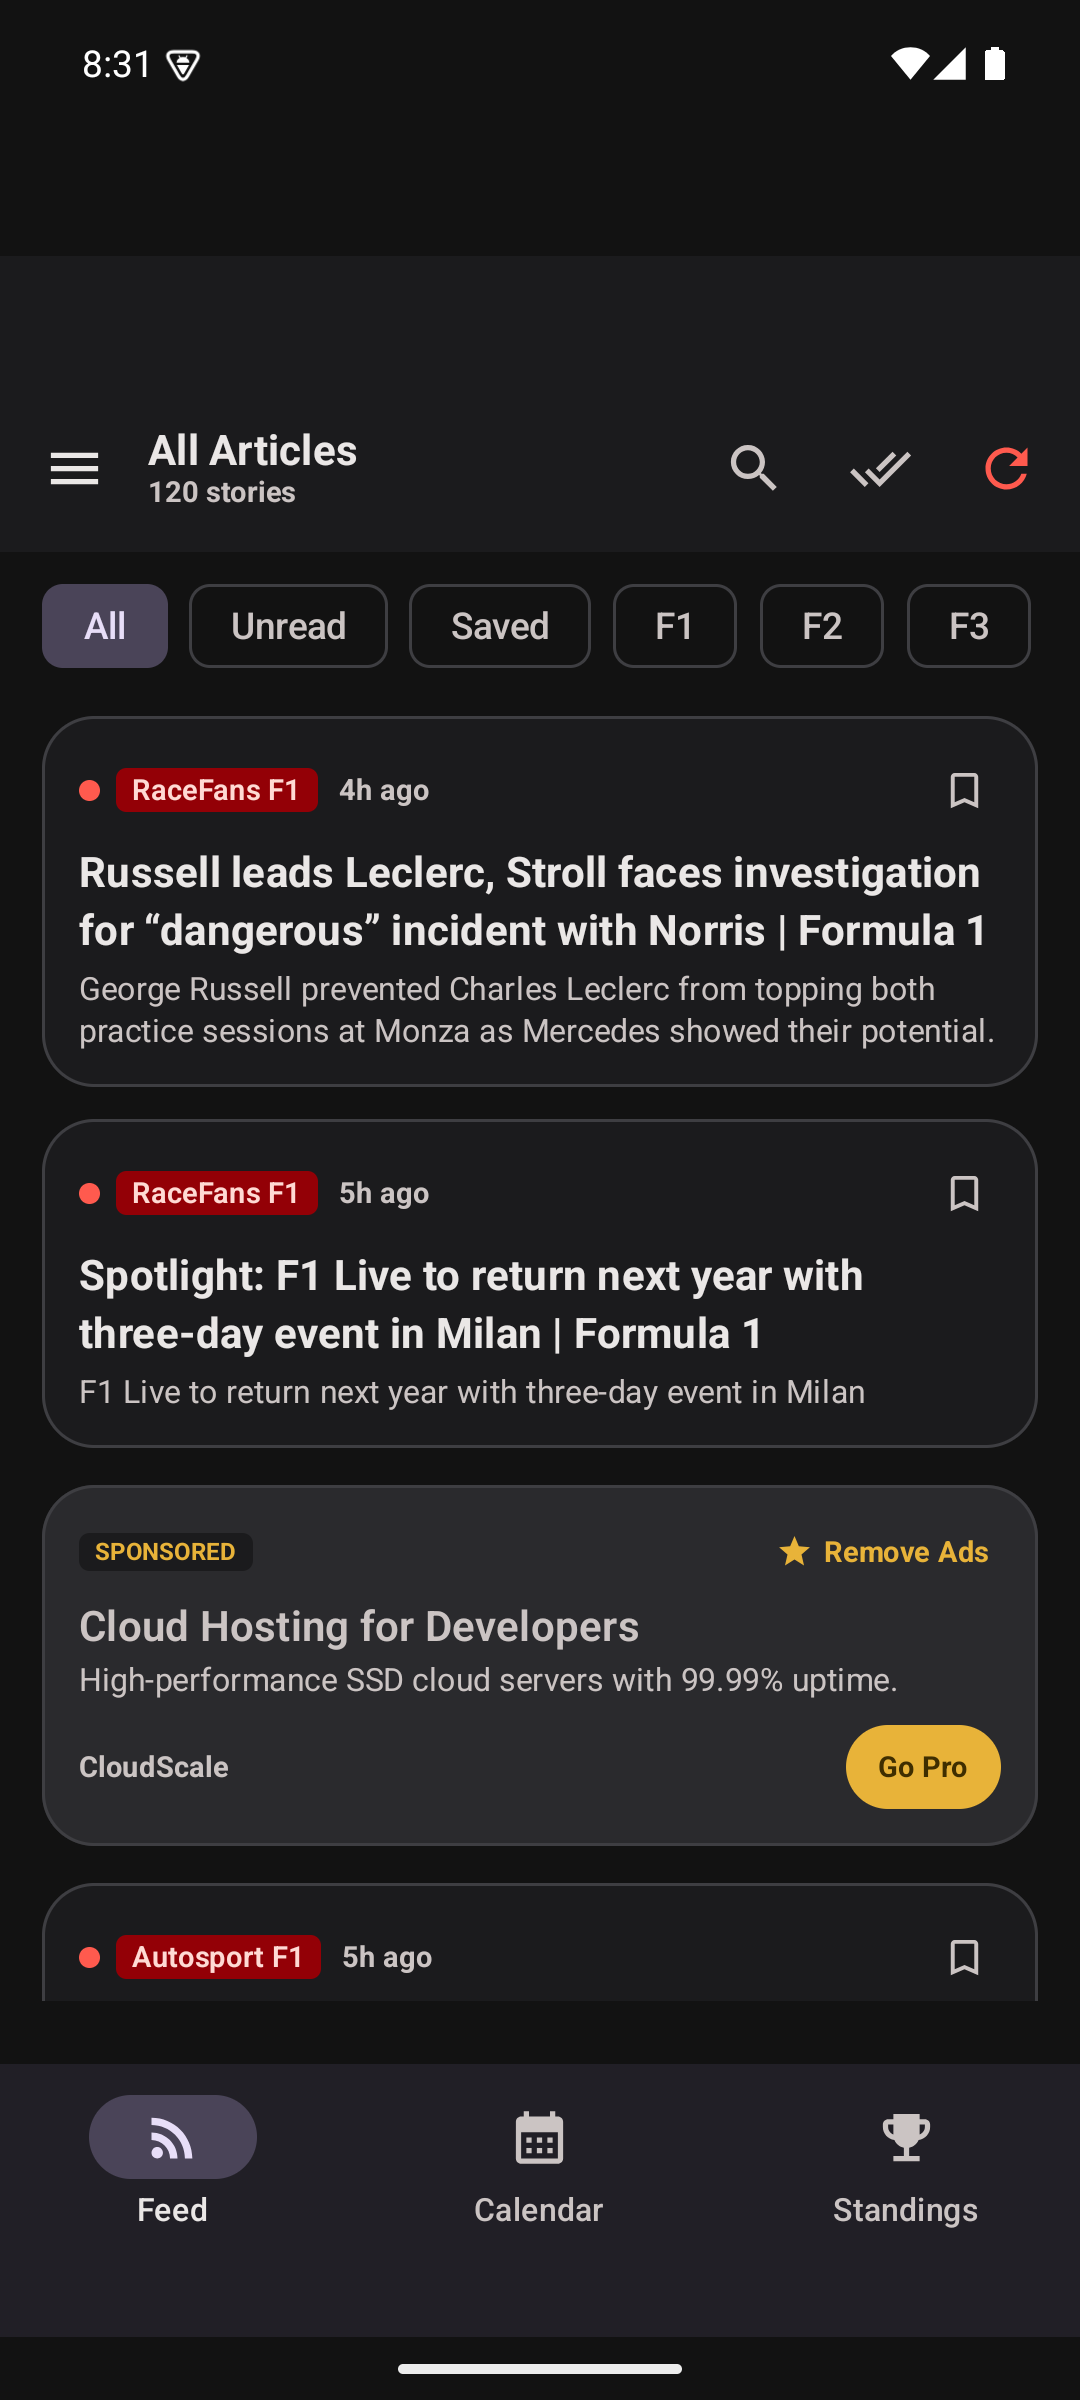
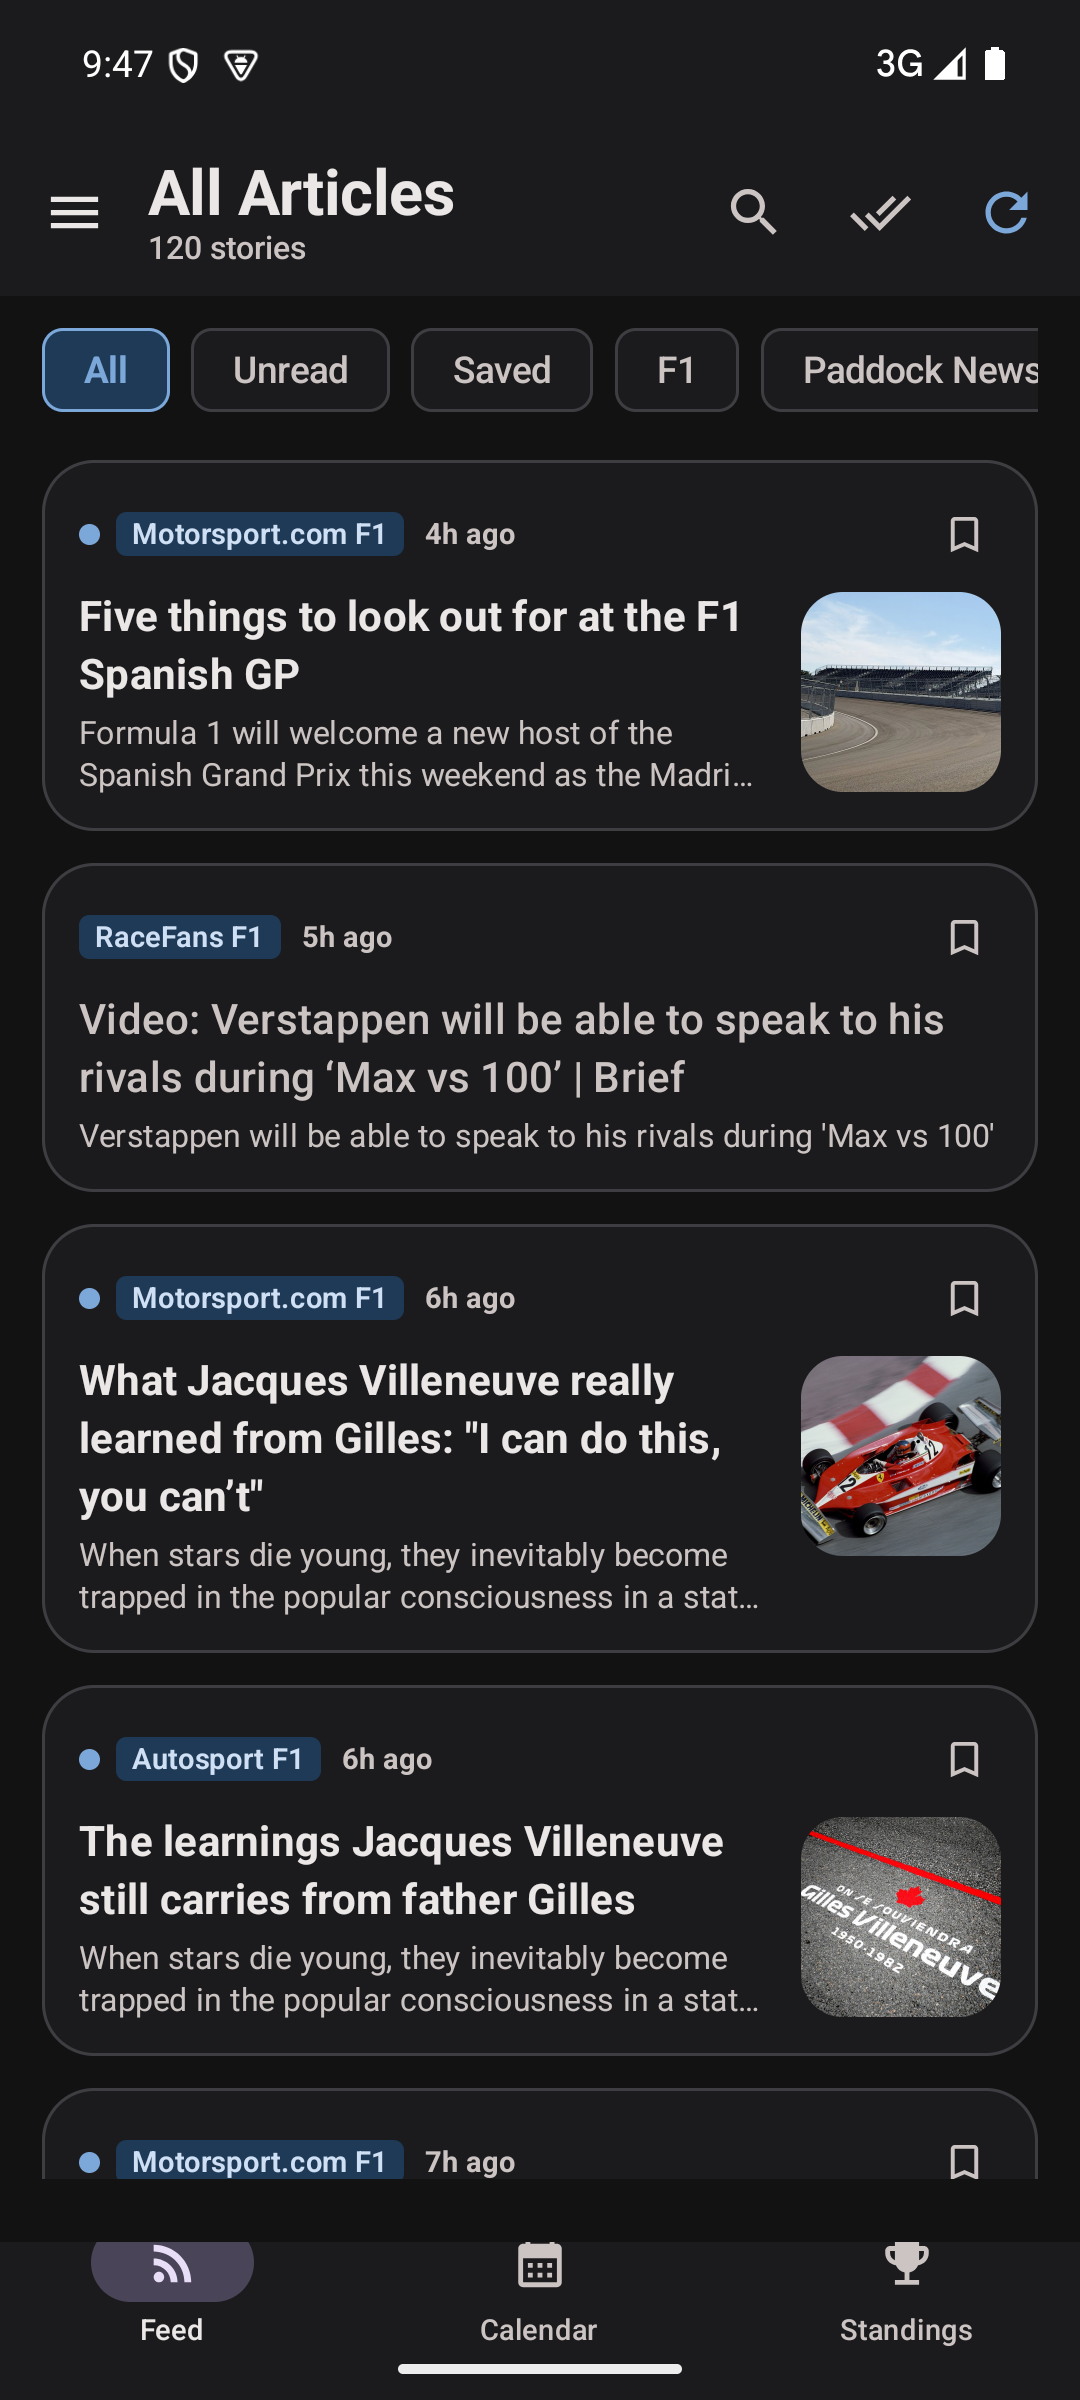
Refresh screenshots to the redesigned UI; note widget worker in privacy

diff --git a/privacy.html b/privacy.html
@@ -68,8 +68,9 @@
     <li><strong>Internet / network state</strong> — to download feeds, F1 data, and images,
         and to check whether you are online.</li>
     <li><strong>Run at startup / wake lock / foreground service</strong> — used by Android's
-        WorkManager to refresh feeds in the background so content is ready when you open the
-        app. These do not access any personal data.</li>
+        WorkManager to refresh feeds and the home-screen widget's race schedule in the
+        background so content is ready when you open the app. These do not access any
+        personal data.</li>
   </ul>
 
   <h2>Analytics, advertising, and third-party SDKs</h2>

diff --git a/index.html b/index.html
@@ -77,7 +77,7 @@
       <img src="assets/screenshot_1_feed.png" alt="Boxpit news feed">
       <img src="assets/screenshot_2_calendar.png" alt="Boxpit race calendar with countdown">
       <img src="assets/screenshot_3_standings.png" alt="Boxpit championship standings">
-      <img src="assets/screenshot_4_widget.png" alt="Boxpit home-screen widget">
+      <img src="assets/screenshot_4_reader.png" alt="Boxpit article reader">
     </div>
   </div>
 </section>
